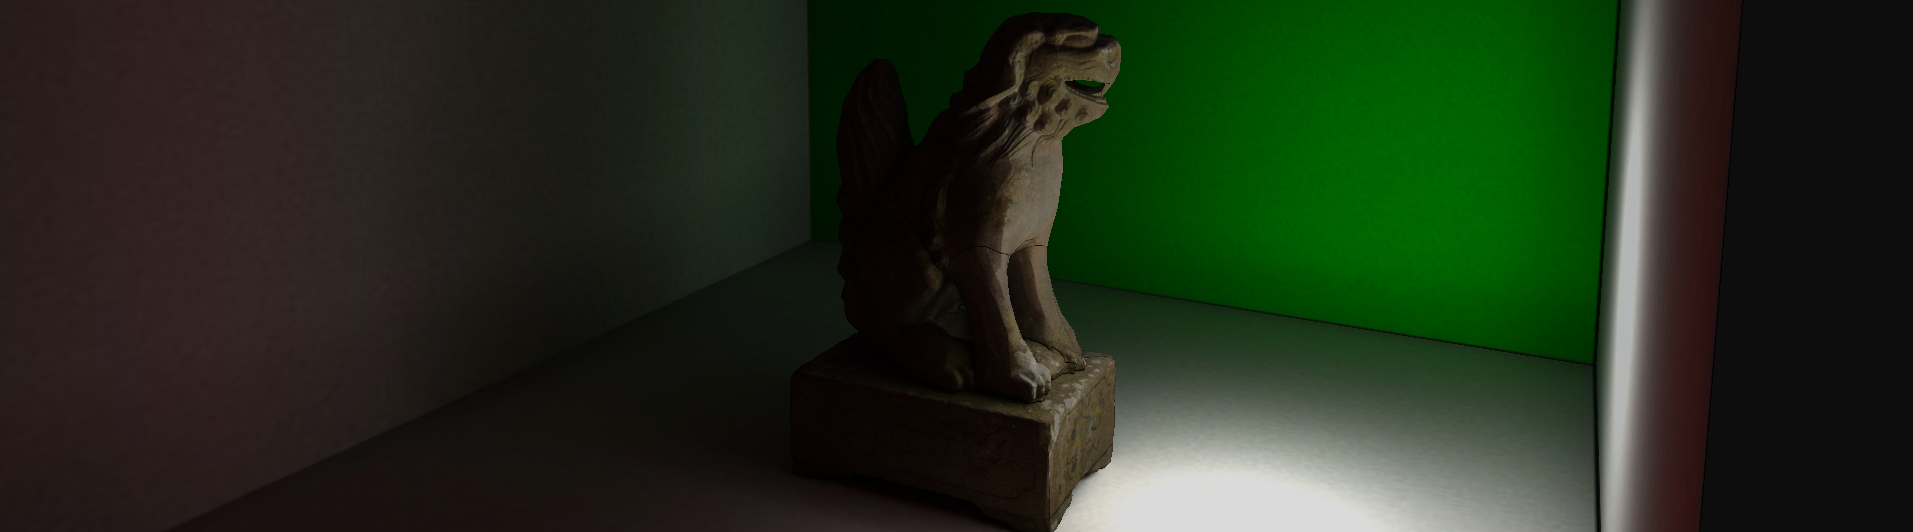
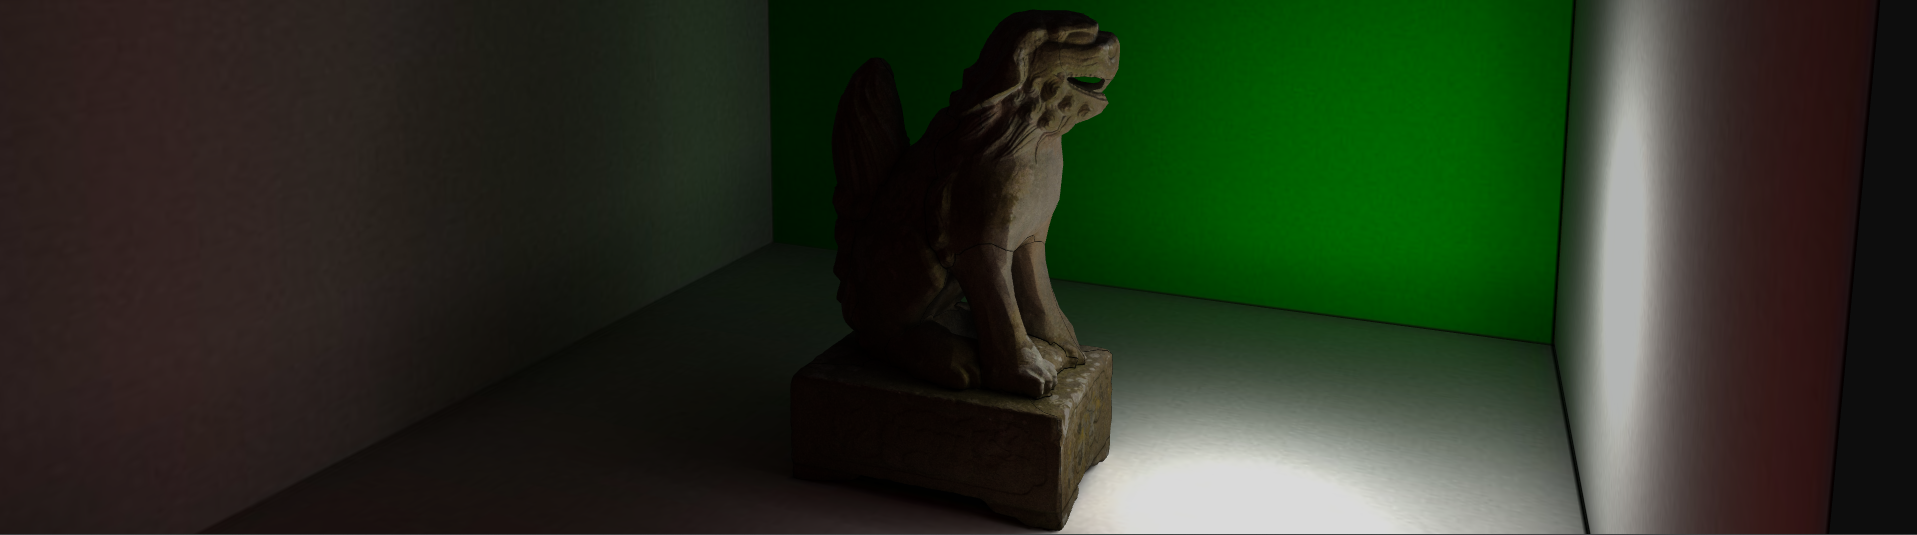
Enabled anti aliasing

diff --git a/Mirage/src/render/display.cpp b/Mirage/src/render/display.cpp
@@ -24,6 +24,7 @@ Display::Display(char const *title, int width, int height) : width(width), heigh
     glfwWindowHint(GLFW_CONTEXT_VERSION_MINOR, 6);
     glfwWindowHint(GLFW_OPENGL_PROFILE, GLFW_OPENGL_CORE_PROFILE);
     glfwWindowHint(GLFW_VISIBLE, GLFW_FALSE);
+    glfwWindowHint(GLFW_SAMPLES, 4);
 
     // Create GLFW window
     if ((window = glfwCreateWindow(width, height, title, nullptr, nullptr)) == NULL)
@@ -43,6 +44,7 @@ Display::Display(char const *title, int width, int height) : width(width), heigh
     // GL Options
     glEnable(GL_DEPTH_TEST);
     glEnable(GL_CULL_FACE);
+    glEnable(GL_MULTISAMPLE);
 
     // Set user pointer for callbacks
     glfwSetWindowUserPointer(window, reinterpret_cast<void *>(this));
